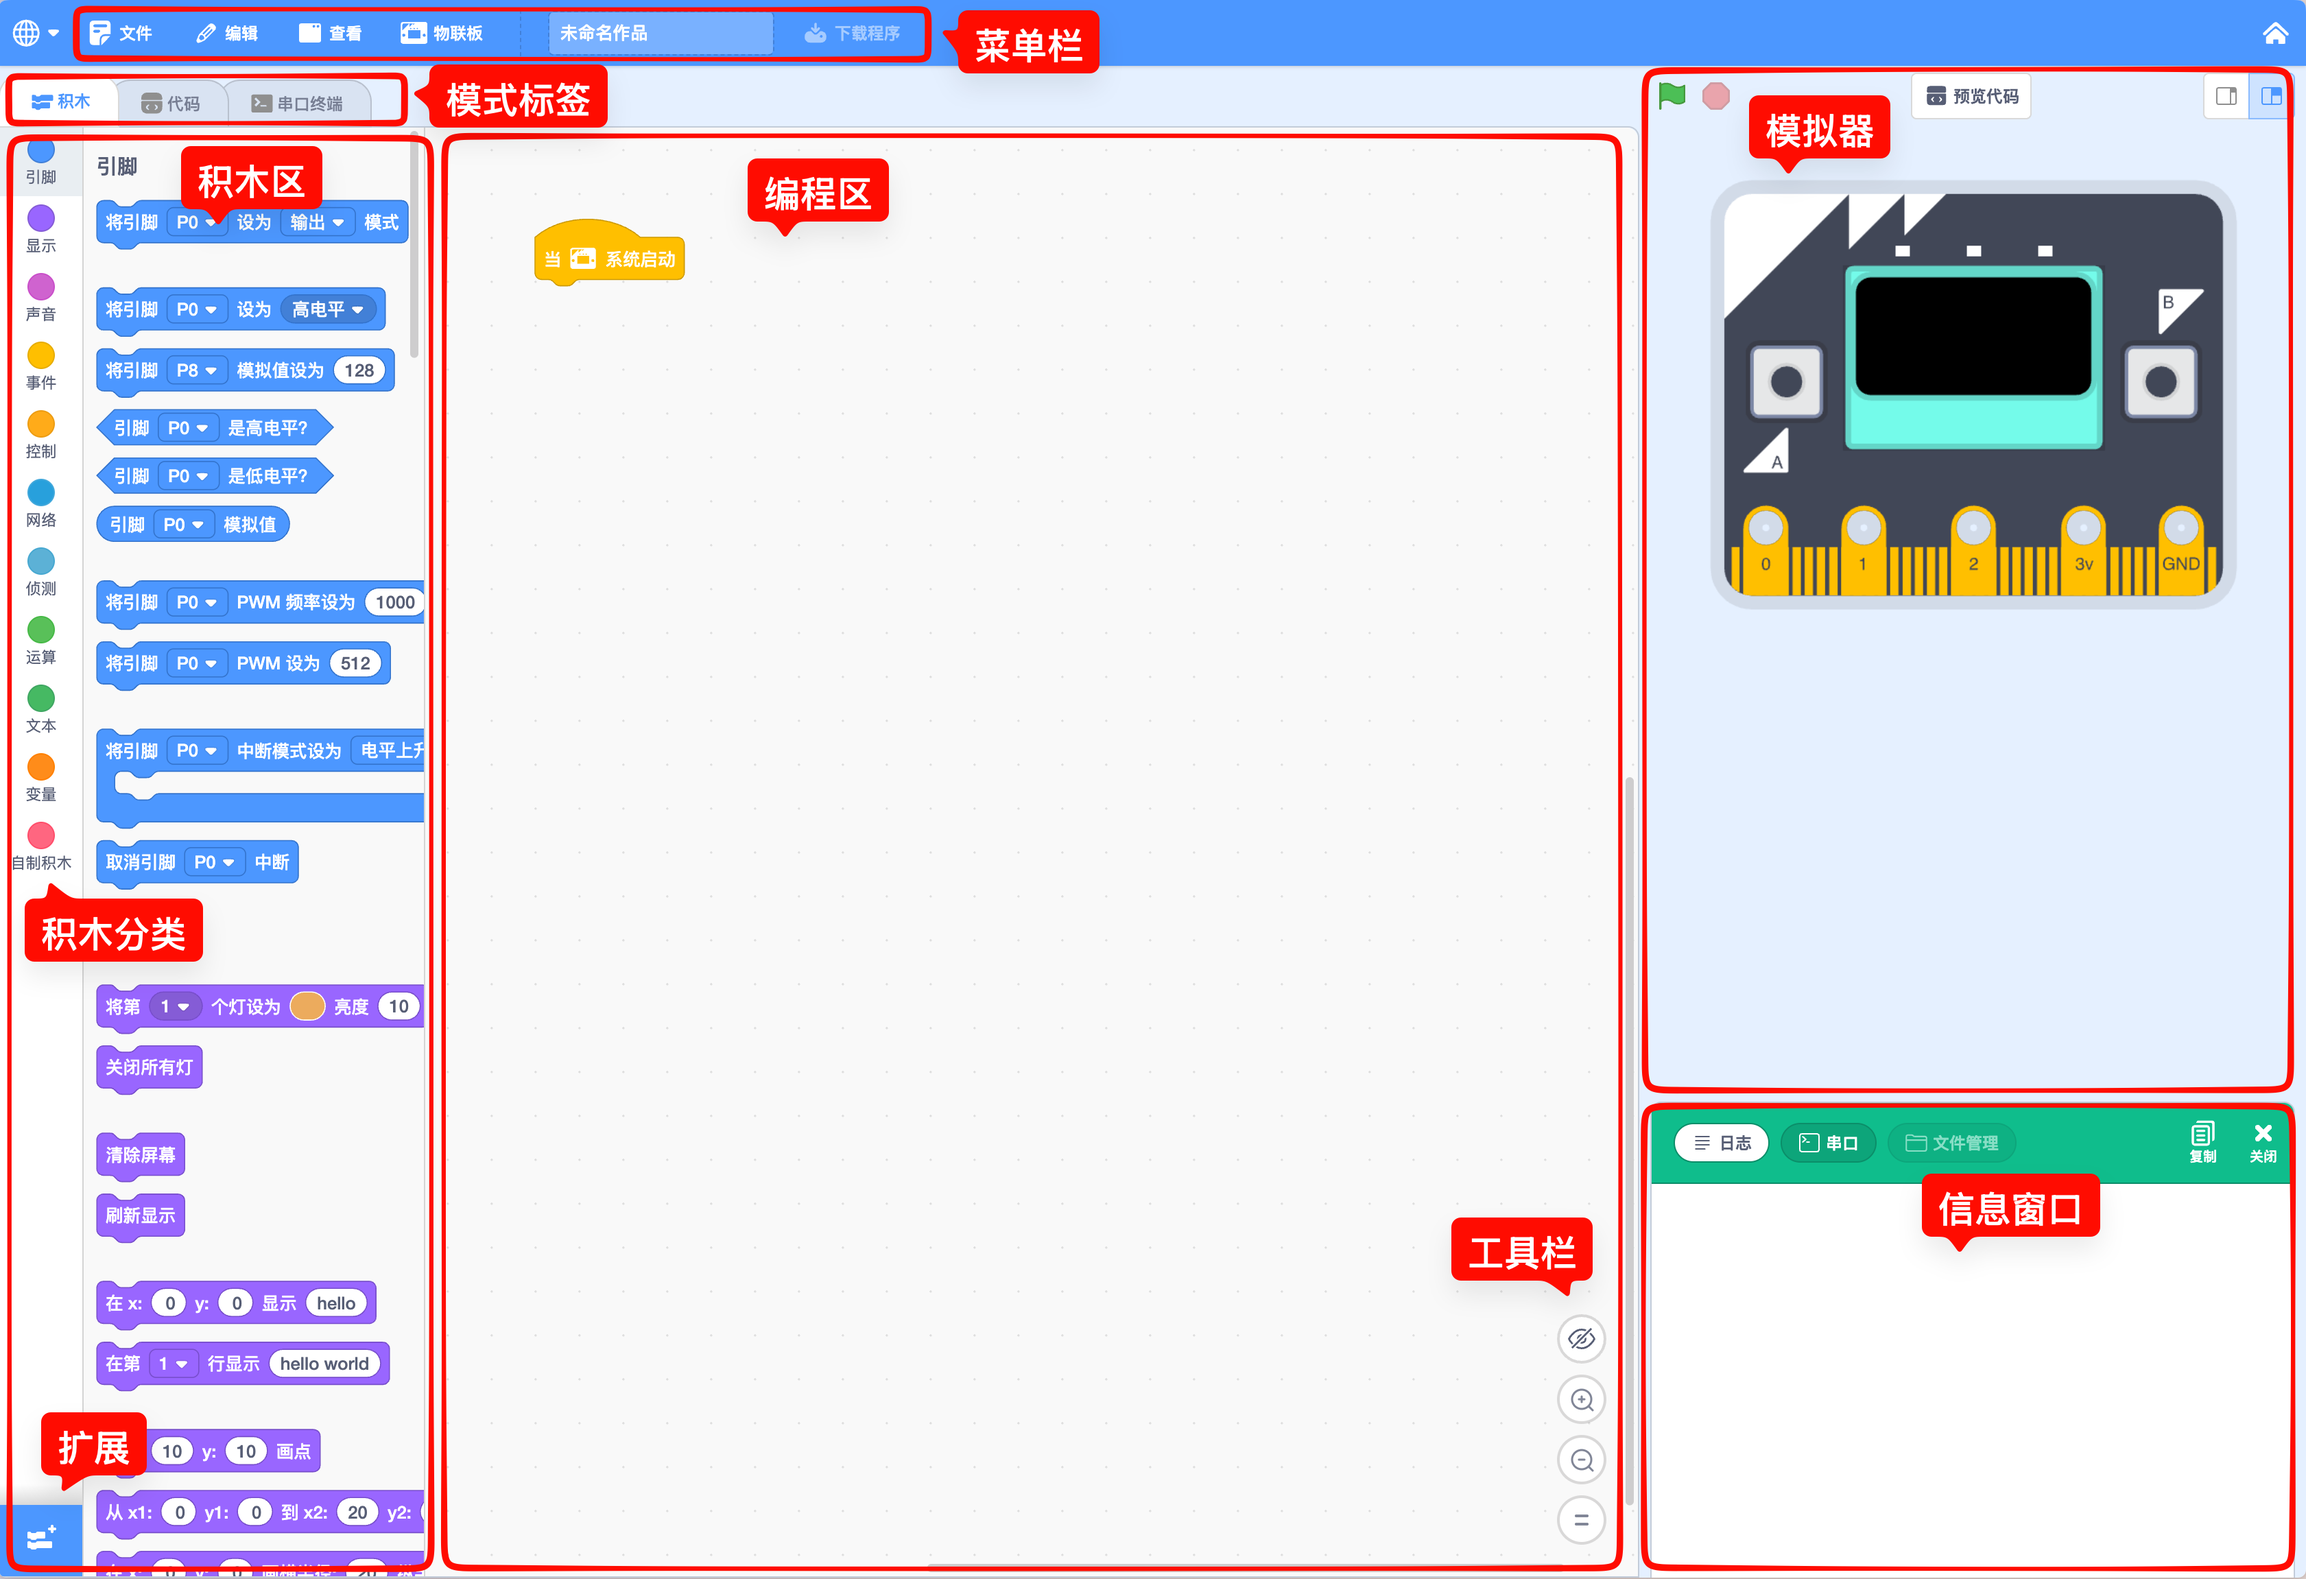
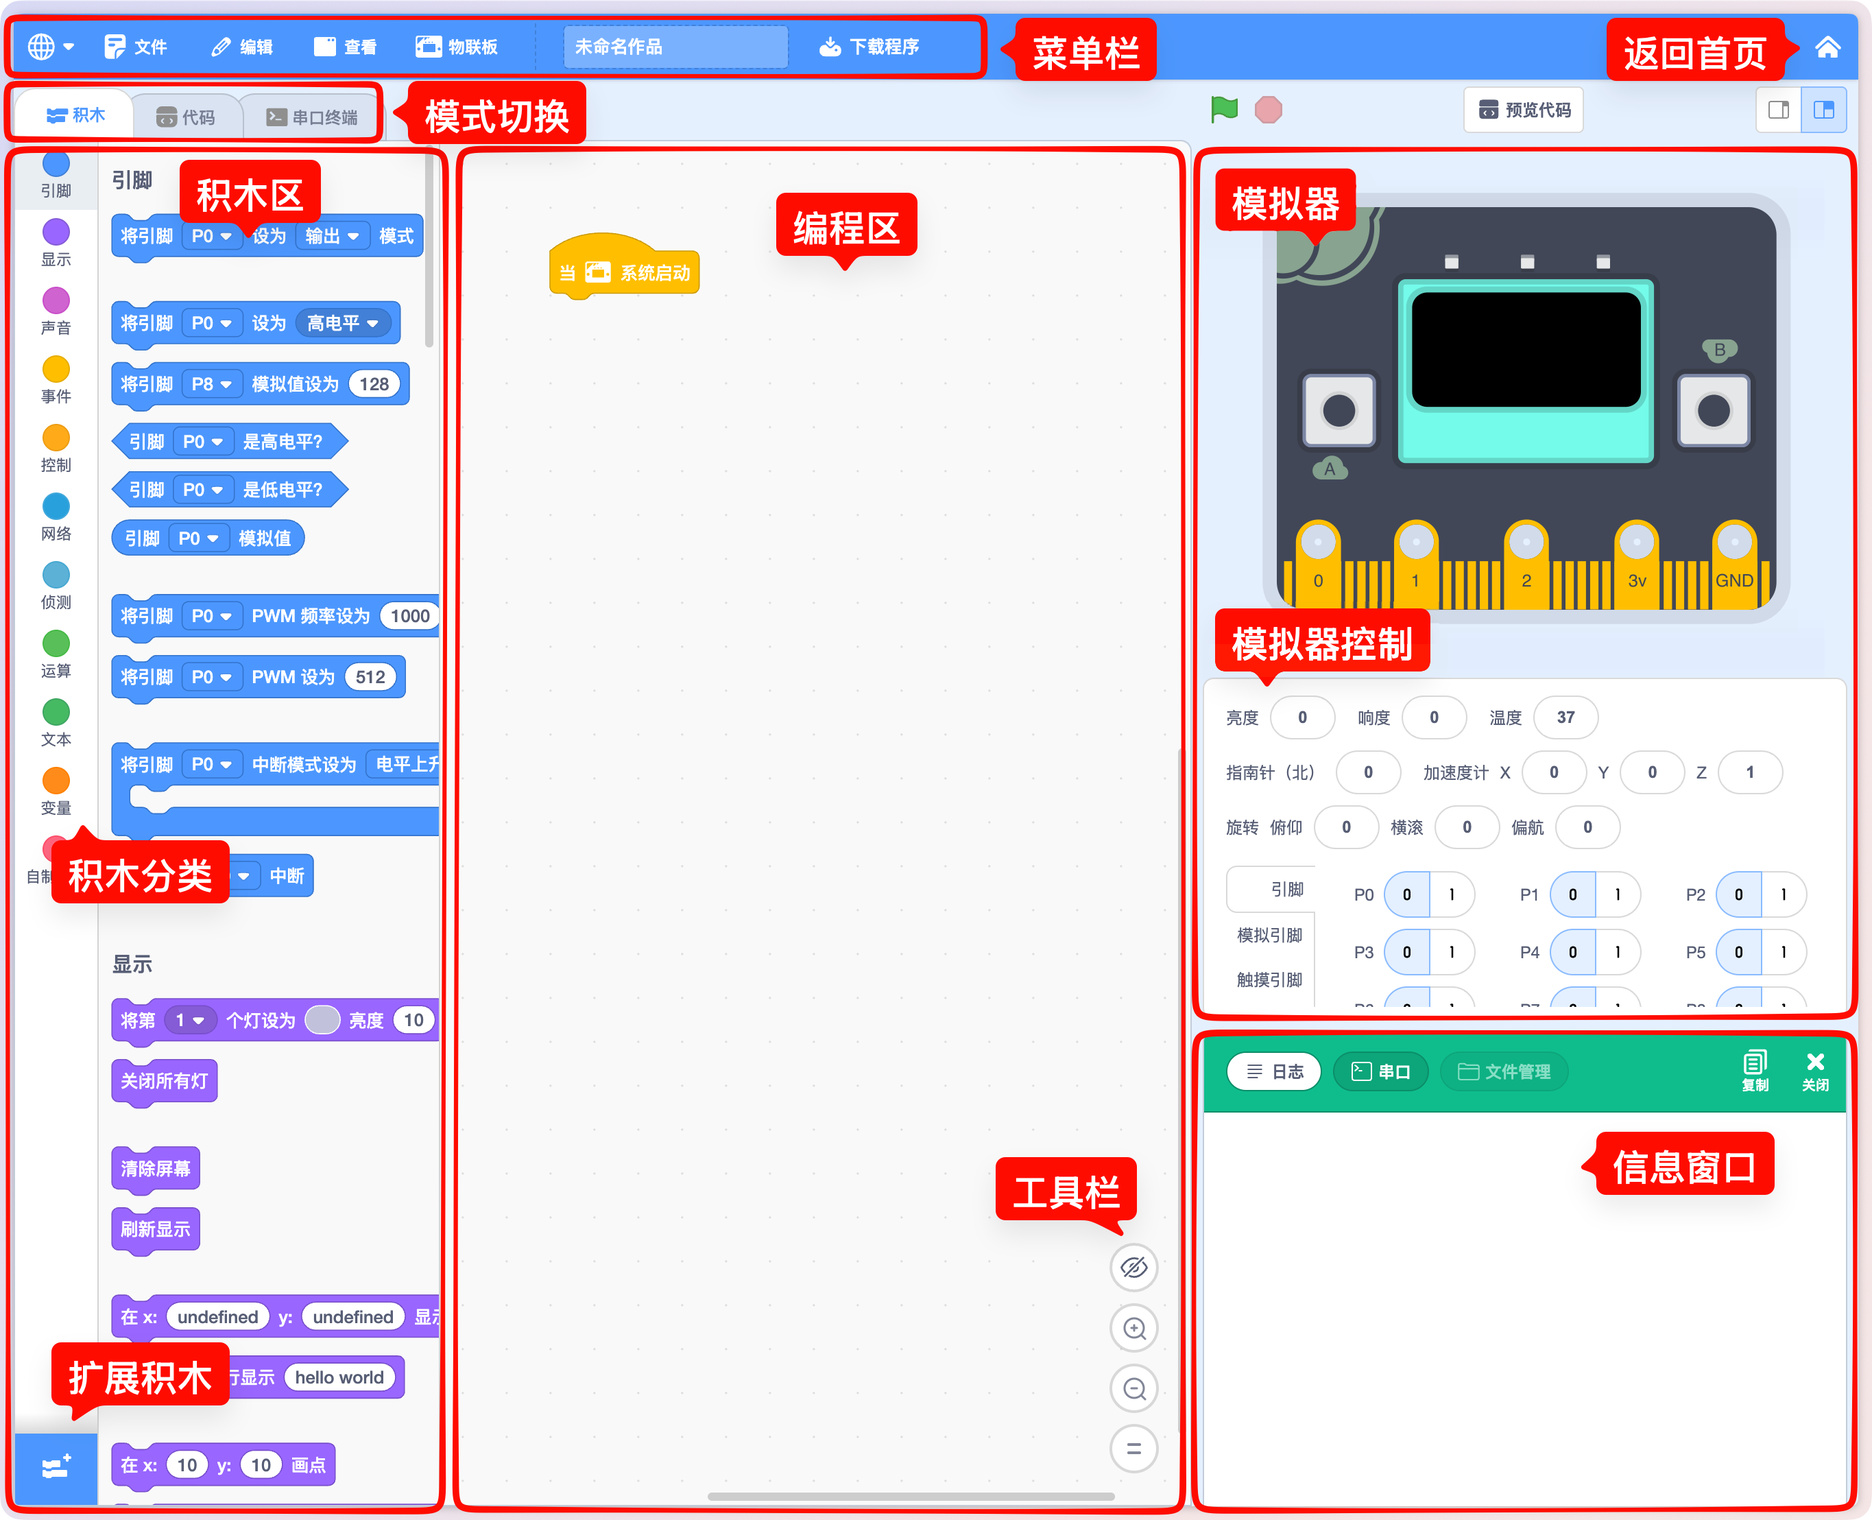
更新文档

diff --git a/docs/quickstart.md b/docs/quickstart.md
@@ -1,16 +1,19 @@
 ## 进入软件
 
 - **我的作品**：存在浏览器本地数据库中的作品。
-- **开始新作品**：选择“物联板 iot:bit”图标开始新的程序。
+- **开始新作品**：选择硬件图标开始新的程序。
 - **精彩作品**：查看精彩的作品案例。
 
-![](_media/ui-home.png ':size=400 软件首页')
+![](_media/ui-home.png '软件首页 :size=400')
 
 ## 开始新作品
 
-从“开始新作品”中选择“物联板 iot:bit”图标点击，即可进入编程界面。
+从“开始新作品”中选择一个硬件点击，即可进入编程界面，不同的硬件编程界面可能有细微差异。
 
-![](_media/ui-iotbit-icon.png)
+![](_media/ui-iotbit-icon.png ':size=200')
+
+点击 **物联板 iot:bit** 硬件图标，进入到 物联板 iot:bit 图形编程界面：
+
 ![](_media/ui-iotbit.png '物联板 iot:bit 编程界面')
 
 - **菜单栏**：作品编辑和功能菜单。
@@ -23,42 +26,73 @@
 - **模式标签**：切换到不同的编辑模式。
   - **积木**：图形化编程界面。
   - **代码**：文本编程界面。
-  - **串口终端**：查看串口终端，进入REPL模式。
+  - **串口**：查看和调试串口输出。
 - **积木区**：编程选用的积木列表。
   - **积木分类**：按积木类型分类标签。
   - **扩展**：扩展的积木列表。
 - **编程区**：积木编程区域，将积木从积木区拖动到该区域进行编程。
   - **工具栏**：编程区的控制工具：查看代码、放大、缩小、原始尺寸。
-- **模拟器**：模拟iot:bit运行程序，查看程序执行效果。
+- **模拟器**：运行模拟器可以免硬件查看程序运行效果（仅限物联板硬件本身的功能）。
+  - **模拟器控制**：实时调节模拟硬件引脚或功能的参数。
 - **信息窗口**：日志和串口信息窗口。
   - **日志**：日志信息记录。
   - **串口**：串口调试显示。
-  - **文件管理**：查看iot:bit的文件系统。
+  - **文件管理**：管理开发板中的文件。
 
 ### 编写第一个程序
 
-在编程界面中，你可以通过拖动积木到编程区来编写程序。编程区默认会有一个**“当 iot:bit 启动时”**积木，这是一个基础的事件积木，表示iot:bit通电后立刻执行的程序，所有其他程序积木都要连接到这个积木后执行。
+在编程界面中，你可以通过拖动积木到编程区来编写程序。编程区默认会有一个 **当 iot:bit 启动时** 积木，这是一个基础的事件积木，表示Arudino在通电后立刻执行的程序，所有其他程序积木都要连接到这个积木后执行。
 
-1. 拖动一个**“控制”**类积木中的**“重复执行”**积木到编程区，连接在**“当 Arudino Uno 启动时”**之后；
-2. 再拖出两个**“等待(1000)毫秒”**的积木连接到**“重复执行”**积木里面；
-3. 再从**“引脚”**类积木中拖出两个**“将引脚[0]设为(高电平)”**的积木分别放在两个**“等待(1000)毫秒”**积木前。
-4. 最后把两个**“将引脚[0]设为(高电平)”**中的引脚参数都改为**“13”**，另一个参数分别改为**“高电平”**和**“低电平”**。
+1. 拖动一个 **控制** 类积木中的 **重复执行** 积木到编程区，连接在 **当 iot:bit 启动时** 之后；
+2. 再拖出一个 **等待(1000)毫秒** 的积木连接 **重复执行** 积木里面；
+3. 在 **文本** 类积木拖出一个 **打印(hello)** 的积木连接到 **等待(1000)毫秒** 积木后面；
 
-![](_media/program-1.png '第一个程序')
+![](_media/program-iotbit-1.png '第一个程序 :size=160')
+
+这段程序表示每1秒（1000毫秒）在串口打印一行“hello”的文字。要查看运行结果，请打开[串口窗口](#串口窗口)。
 
 ## 下载程序
 
-将你的 Arudino Uno 开发板连接到电脑 USB 接口上（如有需要，先安装好驱动，确保串口连接正常）。
+点击菜单栏中的“**下载程序**”按钮将开始下载程序，如果开发板还未与电脑连接（通过 **USB** 或 **BLE** 连接开发板），将弹出连接菜单进行连。
 
-![](_media/ui-device-menu.png '设备菜单')
+![](_media/ui-download-menu.png '下载菜单 :size=400')
 
-1. 在“Arudino Uno”设备菜单中，找到“通过 USB 连接…”选项，点击后在对话框中选中开发板，然后点击“连接”按钮。<br/>
-   ![](_media/ui-connect-device.png '连接开发板')<br/>
-   _(如果对话框中没有显示开发板，请检查开发板连接或重新安装驱动。)_
-2. 点击菜单栏的“下载程序”按钮，程序将被编译并下载到开发板上。<br/>
-   ![](_media/ui-device-download.png '下载程序')<br/>
-   _(如果下载失败，可以在“日志”窗口中查看原因：如果编译失败，则表示程序有误，请检查程序；如果断开连接，请检查开发板连接。)_
+!> 如果开发板一直与电脑保持连接，点击“**下载程序**”按钮后直接[完成下载](#完成下载)。
+
+### 通过 USB 连接
+
+若选择“**通过 USB 连接…**”，在串口对话框中选中开发板，然后点击“**连接**”按钮。
+
+![](_media/ui-usb-device.png '连接开发板 :size=350')
+
+?> 如果对话框中没有显示开发板，请检查开发板连接或重新安装驱动。
+
+### 通过 BLE 连接
+
+若选择“**通过 BLE 连接…**”，在 BLE 配对对话框中选中开发板，然后点击“**配对**”按钮。
+
+![](_media/ui-ble-device.png '连接开发板 :size=350')
+
+?> 如果对话框中没有显示开发板，请检查开发板是否通电。
+
+### 完成下载
+
+连接开发板后，程序将被下载到开发板上。
+
+![](_media/ui-device-download.png '下载程序 :size=400')
+
+### 下载日志
+
+下载成功或失败的信息，都可以在右下角的“**日志**”窗口查看。
+
+![](_media/ui-logs-panel.png '“日志”窗口 :size=450')
 
 ## 运行程序
 
-程序下载完成后，设备会重启，程序将自动运行。这个程序的运行效果是开发板上的 LED 灯交替闪烁。
+### 模拟器运行
+
+直接点击模拟器上的“小绿旗”按钮，程序将开始运行，模拟器也会模拟硬件的运行效果：在屏幕上显示**hello**。
+
+### 硬件上运行
+
+程序下载完成后，硬件设备会重启，程序将自动运行，这个程序的运行效果：在屏幕上显示**hello**。
